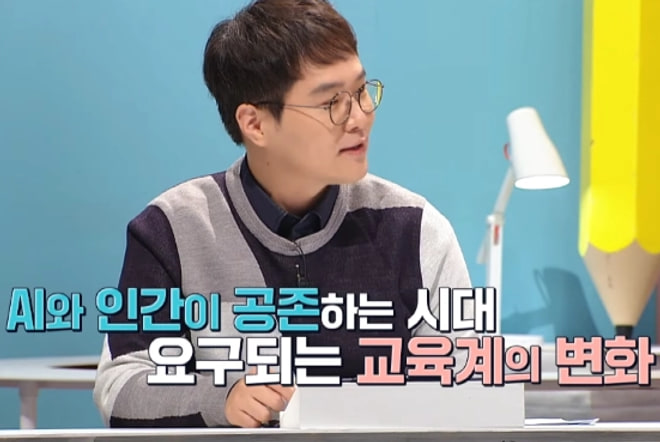
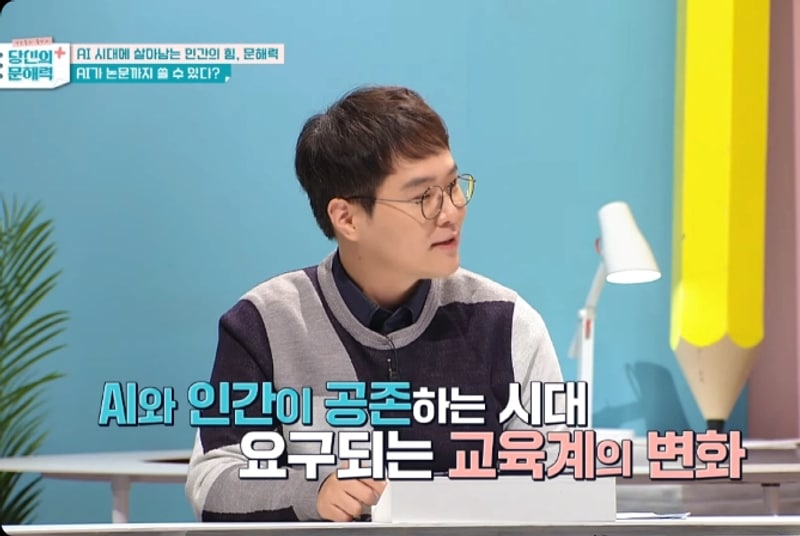
홈 히어로 EBS 타일을 원본 전체 높이로 다시 크롭
로고 바를 피하려고 y=79 부터 잘랐더니 인물 머리 위가 잘려 있었다.
로고와 상단 띠는 EBS 출연을 드러내는 요소라 뺄 이유가 없어
원본 448px 전체 높이(x 0~669)를 쓰는 크롭으로 바꿨다.

- 머리 위 여백 확보, 방송 자막과 프로그램 로고 모두 포함
- 소스 551x369 -> 669x448 로 넓어져 데스크톱 배율 1.45 -> 2.83
- 사진 위아래가 글자로 차 있어 전체 폭 캡션은 어디에 둬도 겹친다.
  비어 있는 우측 상단에 작은 배지로 얹도록 .hero-tile-cap-top 을 변경

diff --git a/styles.css b/styles.css
@@ -2402,3 +2402,20 @@ a.hero-tile:focus-visible { outline: 2px solid #1648d4; outline-offset: 2px; }
   padding: .5rem .6rem 1.9rem;
   background: linear-gradient(0deg, rgba(14, 15, 18, 0) 0%, rgba(14, 15, 18, .3) 42%, rgba(14, 15, 18, .78) 100%);
 }
+
+/* EBS 타일은 사진 위쪽에 프로그램 로고·상단 띠, 아래쪽에 방송 자막이
+   이미 들어차 있다. 전체 폭 캡션을 쓰면 어느 쪽에 두든 글자가 겹치므로,
+   비어 있는 우측 상단에 작은 배지로 얹는다. */
+.hero-tile-cap-top .hero-tile-caption {
+  top: .35rem;
+  right: .35rem;
+  bottom: auto;
+  left: auto;
+  width: max-content;
+  max-width: calc(100% - .7rem);
+  padding: .22rem .42rem;
+  border-radius: 2px;
+  background: rgba(12, 14, 18, .74);
+  font-size: .62rem;
+  letter-spacing: .01em;
+}

diff --git a/index.html b/index.html
@@ -44,8 +44,8 @@
       <div class="hero-mosaic">
         <a class="hero-tile hero-tile-a hero-tile-cap-top" href="speaking-media.html#broadcast">
           <picture>
-            <source srcset="assets/hero/broadcast-ebs.webp" type="image/webp">
-            <img src="assets/hero/broadcast-ebs.jpg" alt="" width="660" height="442" loading="eager" fetchpriority="high" decoding="async">
+            <source srcset="assets/hero/broadcast-ebs.webp?v=2" type="image/webp">
+            <img src="assets/hero/broadcast-ebs.jpg?v=2" alt="" width="800" height="536" loading="eager" fetchpriority="high" decoding="async">
           </picture>
           <span class="hero-tile-caption">EBS &#x2039;당신의 문해력 플러스&#x203A;</span>
         </a>
